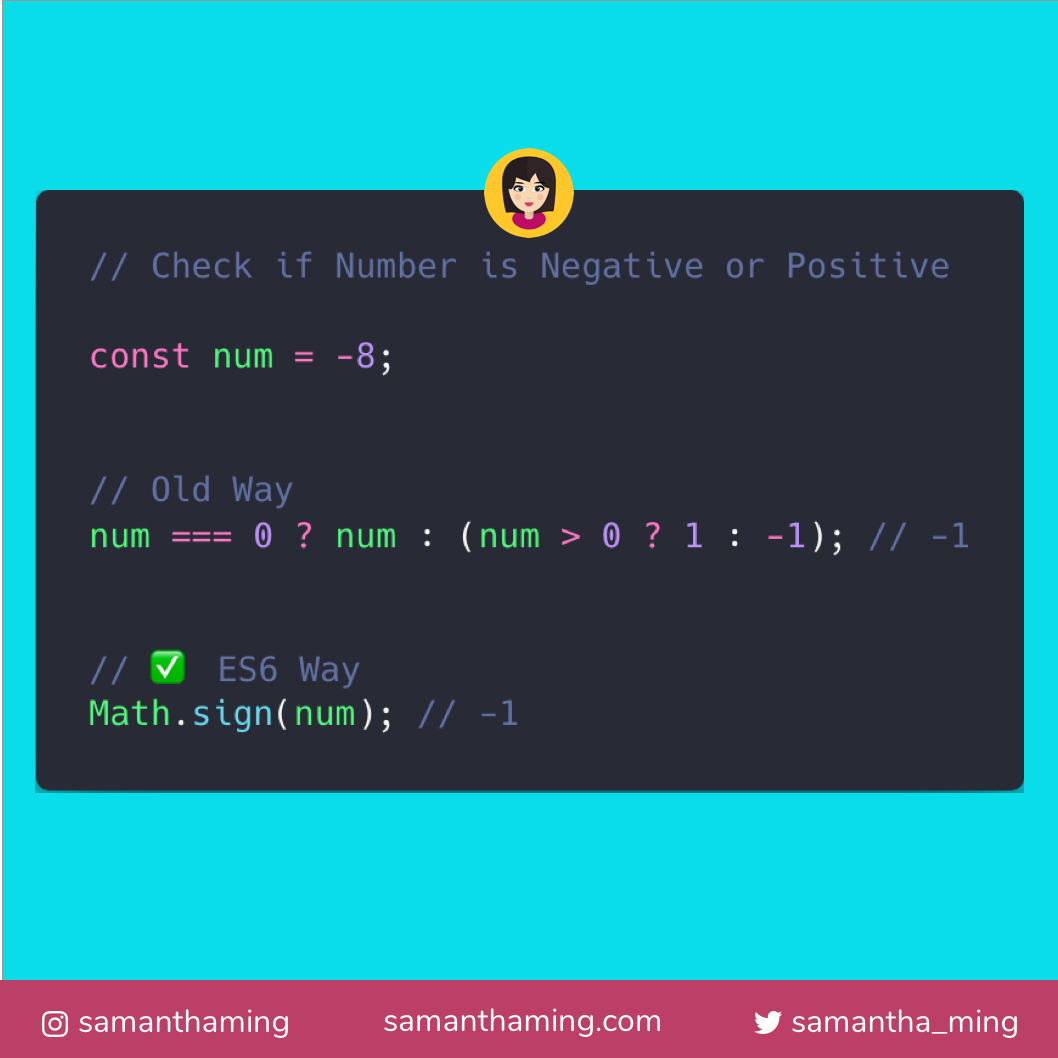
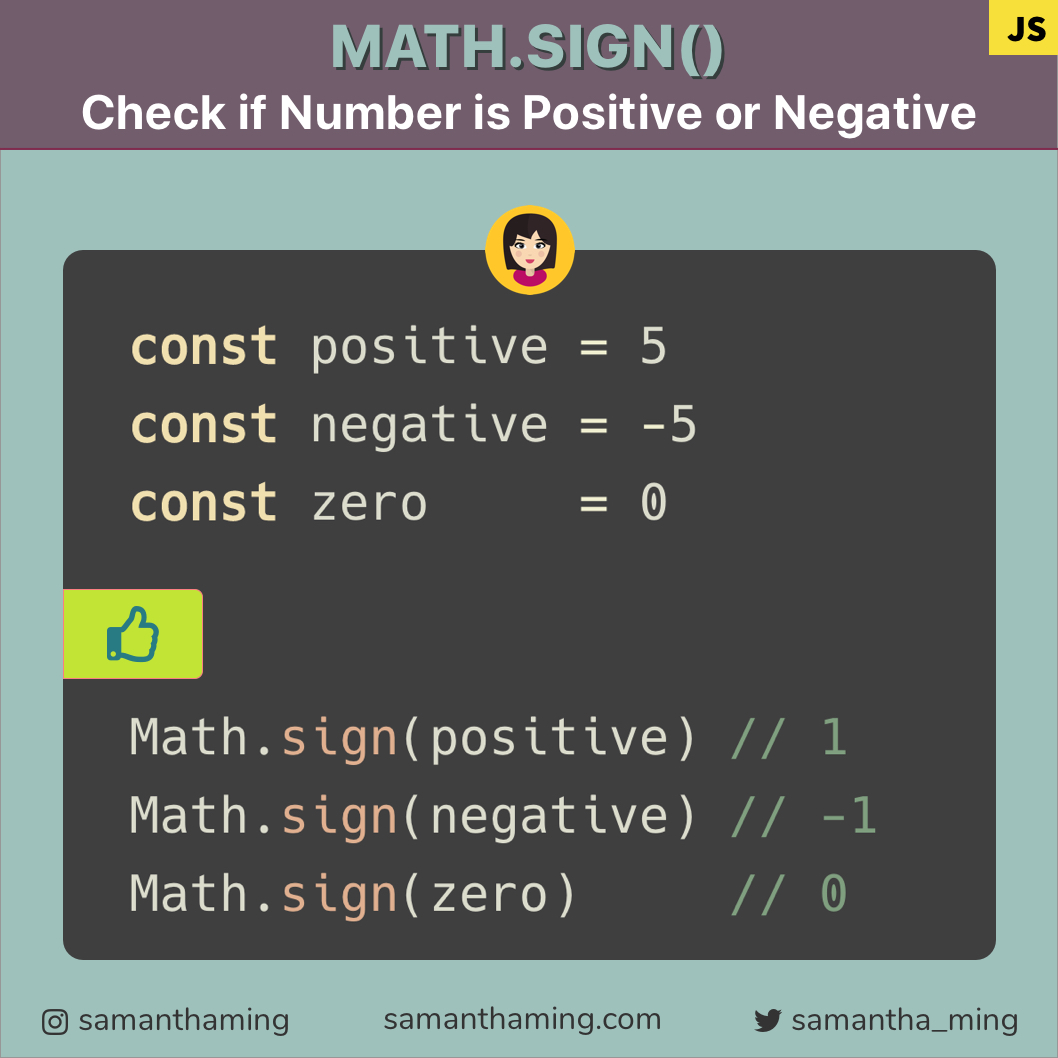
Update tidbit-29 'Math.sign'

diff --git a/articles/tidbits/29-check-if-number-is-positive-or-negative.md b/articles/tidbits/29-check-if-number-is-positive-or-negative.md
@@ -1,25 +1,24 @@
-# How to Check if Number is Negative or Positive
-
-How to check if Number is Negative or Positive 🤩
+# Math.sign: How to Check if a Number is Positive or Negative in JavaScript
 
 Determining the sign of a number is super easy now with ES6's Math.sign 👏 It will indicate whether the number is positive, negative or zero.
 
 ```javascript
-const num = -8;
+const positive = 5;
+const negative = -5;
+const zero = 0;
 
-// Old Way
-num === 0 ? num : (num > 0 ? 1 : -1); // -1
-
-// ✅ ES6 Way
-Math.sign(num); // -1
+Math.sign(positive); // 1
+Math.sign(negative); // -1
+Math.sign(zero); // 0
 ```
 
-Note, the argument passed to this function will be converted to `number` type implicitly.
+[[TOC]]
 
-### Return Value
+## Math.sign Return Value
 
 `Math.sign()` has 5 possible return values:
 
+<!-- prettier-ignore -->
 ```javascript
 1 // positive number
 -1 // negative number
@@ -27,8 +26,6 @@ Note, the argument passed to this function will be converted to `number` type im
 -0 // negative zero
 NaN // not a number
 ```
-
-### Examples
 
 ```javascript
 Math.sign(8); // 1
@@ -42,20 +39,96 @@ Math.sign('hello'); // NaN
 Math.sign(); //NaN
 ```
 
-### A Common Gotcha of `Math.sign`
+Note, the argument passed to this function will be converted to `number` type implicitly.
+
+## Math.sign Gotcha
 
 A common gotcha is thinking that `Math.sign` return the converted argument value. `Math.sign` returns only the sign of a number. It doesn't return the value.
 
 ```javascript
-Math.sign(-8); 
+Math.sign(-8);
 
 // ✅ return -1
 // ❌ It doesn't return -8
 ```
 
-### Negative Zero
+## Math.sign vs Comparative Operator
 
-What the heck is this negative zero 🤨. Kyle Simpson of "You Don't Know JS" explains it the best:
+Got a real good question from the community:
+
+> Why use `Math.sign` when I can use the comparative operator?
+
+```javascript
+if (number > 0) {
+  // Positive
+} else {
+  // Negative
+}
+```
+
+versus
+
+```javascript
+if (Math.sign(number) > 0) {
+  // Positive
+} else {
+  // Negative
+}
+```
+
+Indeed, if you're just checking the boolean status, then I'd just use the comparative operator instead of using `Math.sign`. But where `Math.sign` shines is it returns a number value. This means you can do calculations.
+
+```javascript
+const number = 5;
+
+number > 0; // true
+Math.sign(number); // 1
+```
+
+### Solving an Algorithm Challenge with `Math.sign`
+
+So it allows me to solve this algorithm challenge: "Reverse an Integer"
+
+```javascript
+Input: 123;
+Output: 321;
+
+Input: -123;
+Output: -321;
+```
+
+```javascript
+function reverseInteger(num) {
+  const numArray = Math.abs(num) // Get the absolute value of our number > 321
+    .toString() // Convert our number to a string > '321'
+    .split('') // Convert our string of numbers to an array > [3, 2, 1]
+    .reverse() // Reverse our array of numbers > [1, 2, 3]
+    .join(''); // Convert our array back to a string > 123
+
+  const sign = Math.sign(num); // -1
+  return numArray * sign;
+  // Multiply our reverse string with the sign will produce the correct reverse number
+}
+
+reverseInteger(-321); // -123
+```
+
+This algorithm question is from Leetcode's "Reverse an Integer". I edited the requirement of the question to simplify our demonstration. To see the actual solution, here's one from _[@loia5tqd001](https://leetcode.com/problems/reverse-integer/discuss/373709/Clean-And-Simple-Javascript-Solution)_ .
+
+This is actually when I first discovered this function. That's why I love looking at other people's solutions. It's always interesting to see how other people solve something. Even if the solution is bad, I read those too, cause it teaches me what to avoid 😉. No knowledge is wasted 💪. It's all expanding my toolkit. Just like those learning machines, the more data you feed, the better it gets. I think my brain is like that too. I need to see a lot of solutions in order for me to get better 😄
+
+That's why in a lot of my tidbits, I cover the different ways of solving something. Because there is never a BEST function. The best way is always dependant on the situation. The larger your toolkit, the higher chance you will find the best way 👍
+
+## Negative Zero
+
+So you may notice that `Math.sign` returns a negative zero:
+
+```javascript
+Math.sign(0); // 0
+Math.sign(-0); // -0
+```
+
+And your next question is, what the heck is this negative zero 🤨. Kyle Simpson of "You Don't Know JS" explains it the best:
 
 > Now, why do we need a negative zero, besides academic trivia?
 
@@ -63,8 +136,53 @@ What the heck is this negative zero 🤨. Kyle Simpson of "You Don't Know JS" ex
 
 > In those applications, as one example, if a variable arrives at zero and it loses its sign, then you would lose the information of what direction it was moving in before it arrived at zero. Preserving the sign of the zero prevents potentially unwanted information loss.
 
-_[YDKJS - Type & Grammer - Zeros](https://github.com/getify/You-Dont-Know-JS/blob/master/types%20%26%20grammar/ch2.md#zeros)_
+_[YDKJS - Type & Grammer - Zeros](https://github.com/getify/You-Dont-Know-JS)_
+
+## Math.sign Browser Support
+
+Support is great for all modern browsers. Unfortunately, Internet Explorers is too hip to play with the rest of the class. So no support there.
+
+| Browser           |     |
+| ----------------- | --- |
+| Chrome            | ✅  |
+| Firefox           | ✅  |
+| Safari            | ✅  |
+| Edge              | ✅  |
+| Internet Explorer | ❌  |
+
+[MDN Browser Compatibility Chart](https://developer.mozilla.org/en-US/docs/Web/JavaScript/Reference/Global_Objects/Math/sign#Browser_compatibility)
+
+### Code Tidbit for IE
+
+But no worries, here is an alternative code snippet for you. This will work on Internet Explorer and older browsers 👍
+
+```javascript
+const positive = 5;
+const negative = -5;
+const zero = 0;
+
+positive === 0 ? positive : positive > 0 ? 1 : -1; // 1
+negative === 0 ? negative : negative > 0 ? 1 : -1; // -1
+zero === 0 ? zero : zero > 0 ? 1 : -1; // 0
+```
+
+### Math.sign Polyfill
+
+Or keep using `Math.sign` and just add this [Polyfill from MDN](https://developer.mozilla.org/en-US/docs/Web/JavaScript/Reference/Global_Objects/Math/sign#Polyfill)
+
+```javascript
+if (!Math.sign) {
+  Math.sign = function(x) {
+    return (x > 0) - (x < 0) || +x;
+  };
+}
+```
 
 ## Resources
 
 - [MDN Web Docs - Math.sign()](https://developer.mozilla.org/en-US/docs/Web/JavaScript/Reference/Global_Objects/Math/sign)
+- [Stack Overflow: Number sign in JavaScript](https://stackoverflow.com/questions/7624920/number-sign-in-javascript)
+- [Leetcode Solution: Reverse an integer](https://leetcode.com/problems/reverse-integer/discuss/373709/Clean-And-Simple-Javascript-Solution)
+- [Math.sign MDN Polyfill](https://developer.mozilla.org/en-US/docs/Web/JavaScript/Reference/Global_Objects/Math/sign#Polyfill)
+- [Stack Overflow: How to check the value given is a positive or negative integer?](https://stackoverflow.com/questions/7037669/how-to-check-the-value-given-is-a-positive-or-negative-integer/7792637)
+- [Stack Overflow: JS Negative Number](https://stackoverflow.com/questions/3571717/javascript-negative-number)

diff --git a/articles/tidbits/84-2-ways-to-center-elements-with-flexbox.md b/articles/tidbits/84-2-ways-to-center-elements-with-flexbox.md
@@ -214,6 +214,8 @@ You might have noticed, I applied `margin` to the child element. That's because 
 
 ## Community Example
 
+### Debugging Fixed Position with Flex
+
 This example is not necessarily related to flexbox, but more so with `position:fixed`. The twitter community got involved in debugging it, so I wanted to include it in the notes, as some of you might find it interesting. You can follow the original [Twitter thread here](https://twitter.com/rapzzyofficial/status/1244360589104775168?s=21) by @rapzzyofficial.
 
 I'm going to simplify his example so it's easier to follow here. But the idea is the same. He wants to build a navbar where the links are spaced out between each other like this.
